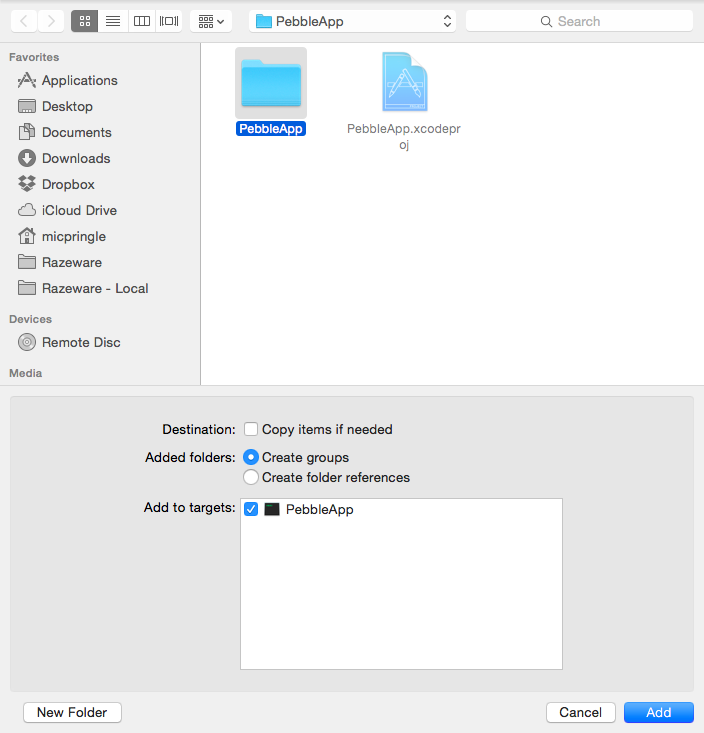
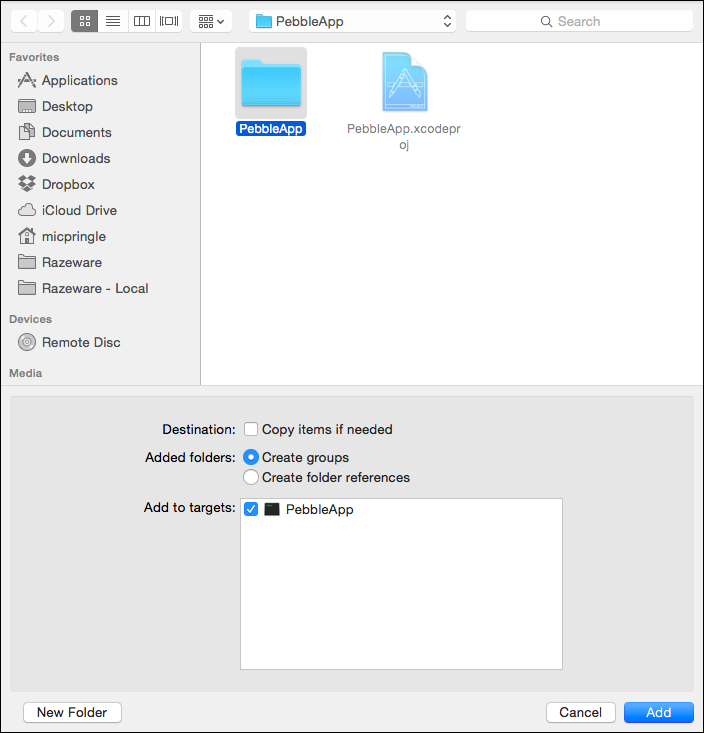
Added borders to some of the screenshots

Changed region(s): [[0.0, 0.9905, 1.0, 1.0]]

diff --git a/README.md b/README.md
@@ -112,5 +112,5 @@ And since the SDK headers are so well documented, you even get full **Quick Help
 
 ![](Images/20.png)
 
-Another big advantage of using Xcode over a text editor is that you also get syntax checking. Which, if you’ve adopted Swift as I have, is invaluable in reminding you about the need for semi-colons :]
+Another big advantage of using Xcode over a text editor is the syntax checking. Which comes in really useful if you’ve recently moved to [Swift](https://developer.apple.com/swift/) and have therefore completely forgot about the need for semi-colons :smirk:
 
